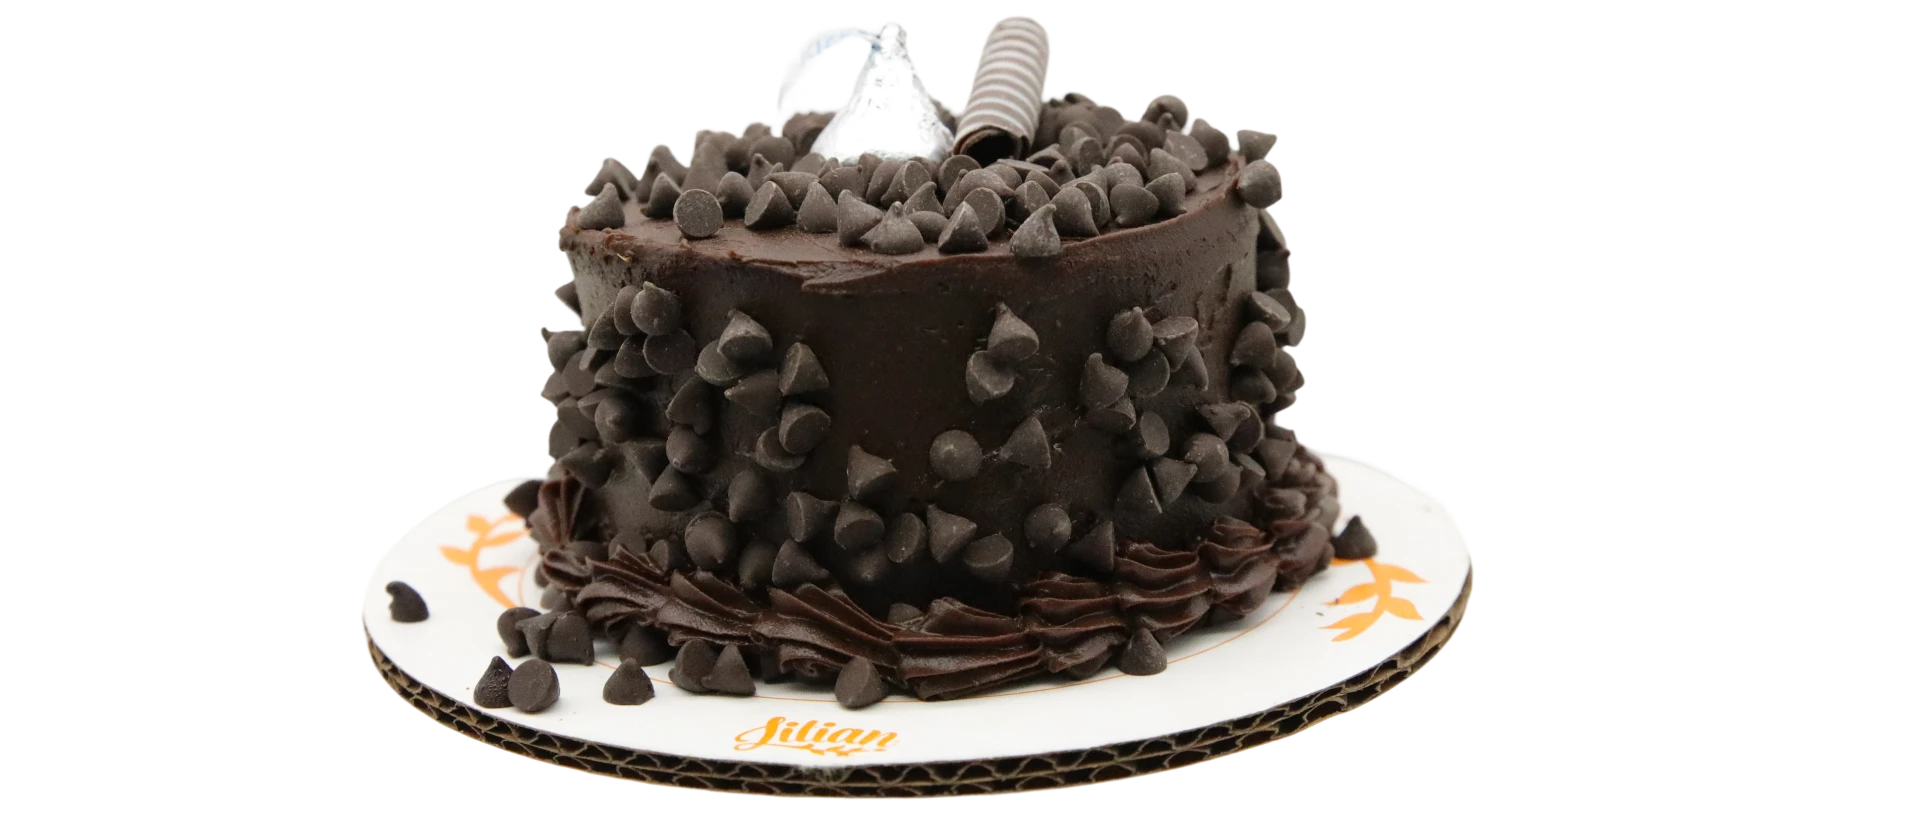
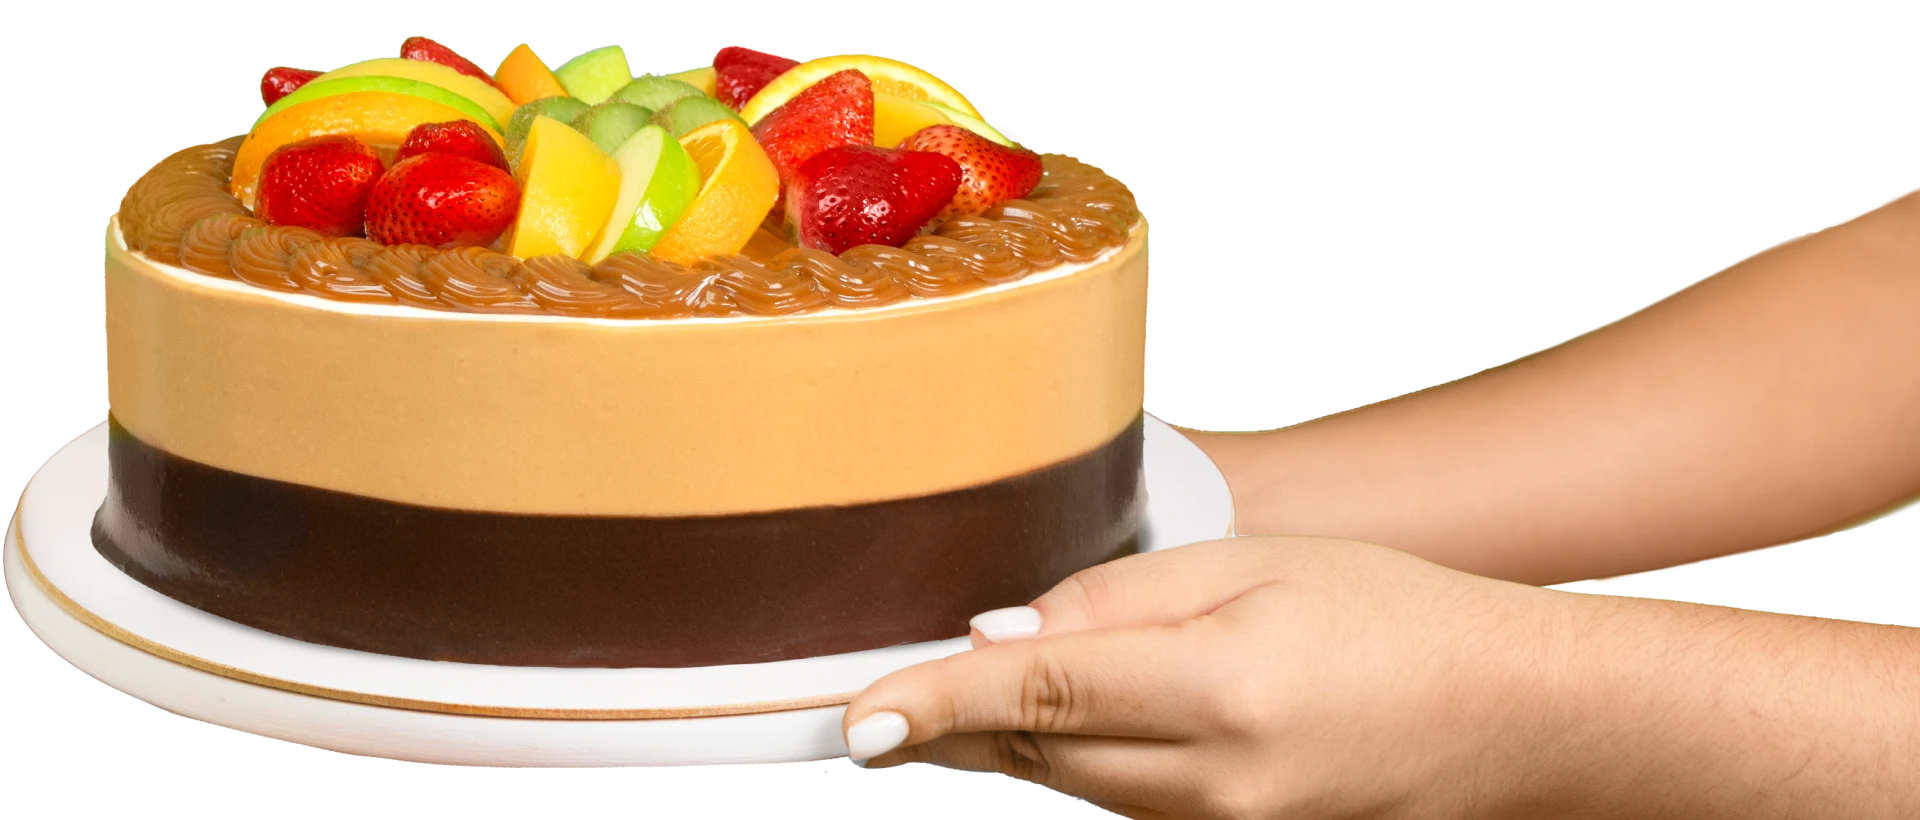
ajustes sliders carrousel

diff --git a/features/catalog/components/CatalogTitle.tsx b/features/catalog/components/CatalogTitle.tsx
@@ -1,22 +1,36 @@
-import { CATALOG_TEXTS } from "../constants";
-import DecorativeArrow from "./DecorativeArrow";
+import Image from "next/image";
+import { CATALOG_IMAGES, CATALOG_TEXTS } from "../constants";
 
 export default function CatalogTitle() {
   return (
-    <div className="flex flex-col items-center mb-12 text-center w-full max-w-[1440px]">
-      <div className="flex items-center justify-center gap-4 sm:gap-8 w-full">
-        <DecorativeArrow className="rotate-180 transform scale-y-[-1]" />
+    <div className="flex flex-col items-center mb-10 sm:mb-12 text-center w-full max-w-[1440px] px-4">
+      <div className="flex items-center justify-center gap-3 sm:gap-6 lg:gap-10 w-full">
+        <Image
+          src={CATALOG_IMAGES.leafLeft}
+          alt=""
+          width={336}
+          height={109}
+          className="hidden sm:block w-[100px] md:w-[160px] lg:w-[220px] h-auto object-contain shrink-0"
+          sizes="(max-width: 768px) 100px, (max-width: 1024px) 160px, 220px"
+        />
 
-        <h2 className="font-chronica text-lilian-purple text-[32px] sm:text-[45px] md:text-[55px] font-bold leading-[1.2] whitespace-nowrap">
+        <h2 className="font-chronica text-lilian-purple text-[24px] sm:text-[34px] md:text-[42px] lg:text-[50px] font-bold leading-[1.1] whitespace-nowrap">
           {CATALOG_TEXTS.titleLine1}
           <br />
-          {CATALOG_TEXTS.titleLine2Prefix}
-          <span className="font-owl-cute text-lilian-orange text-[42px] sm:text-[60px] md:text-[70px] normal-case lowercase inline-block -mb-2">
+          <span className="font-owl-cute text-lilian-orange text-[30px] sm:text-[44px] md:text-[54px] lg:text-[64px] inline-block align-middle mx-1">
             {CATALOG_TEXTS.highlightedWord}
           </span>
+          {CATALOG_TEXTS.titleLine2Suffix}
         </h2>
 
-        <DecorativeArrow />
+        <Image
+          src={CATALOG_IMAGES.leafRight}
+          alt=""
+          width={345}
+          height={109}
+          className="hidden sm:block w-[100px] md:w-[160px] lg:w-[220px] h-auto object-contain shrink-0"
+          sizes="(max-width: 768px) 100px, (max-width: 1024px) 160px, 220px"
+        />
       </div>
     </div>
   );

diff --git a/features/catalog/components/CatalogCta.tsx b/features/catalog/components/CatalogCta.tsx
@@ -1,0 +1,23 @@
+import Image from "next/image";
+import Link from "next/link";
+import { CTA } from "@/lib/constants";
+
+export default function CatalogCta() {
+  return (
+    <div className="mt-12 sm:mt-16 text-center w-full relative z-10">
+      <Link
+        href={CTA.href}
+        className="inline-flex items-center justify-center gap-2 whitespace-nowrap bg-gradient-to-r from-lilian-purple-dark via-lilian-purple to-lilian-purple-light text-white font-chronica font-medium text-[15px] sm:text-[16px] px-6 sm:px-8 py-3 rounded-full shadow-md hover:brightness-110 transition-all duration-200"
+      >
+        <Image
+          src="/icon-pedidos.svg"
+          alt=""
+          width={17}
+          height={16}
+          aria-hidden="true"
+        />
+        {CTA.label}
+      </Link>
+    </div>
+  );
+}

diff --git a/features/hero/components/HeroSlide.tsx b/features/hero/components/HeroSlide.tsx
@@ -31,7 +31,18 @@ function HeroSlide({ slide, index, isActive }: HeroSlideProps) {
         />
       </div>
 
-      {slide.foregroundImage && slide.foregroundImage.fit === "cover" ? (
+      {slide.foregroundImage && slide.foregroundImage.fit === "compact" ? (
+        <div className="absolute right-0 bottom-[-26px] sm:bottom-[-75px] md:bottom-[-54px] lg:bottom-[-42px] z-[1] pointer-events-none h-[280px] sm:h-[320px] md:h-[370px] lg:h-[420px] aspect-[1920/820]">
+          <Image
+            src={slide.foregroundImage.src}
+            alt={slide.foregroundImage.alt}
+            fill
+            priority
+            className="object-contain object-bottom"
+            sizes="(max-width: 640px) 655px, (max-width: 768px) 750px, (max-width: 1024px) 866px, 983px"
+          />
+        </div>
+      ) : slide.foregroundImage && slide.foregroundImage.fit === "cover" ? (
         <div className="absolute inset-x-0 bottom-0 z-[1] pointer-events-none w-full aspect-[1920/820]">
           <Image
             src={slide.foregroundImage.src}

diff --git a/features/catalog/constants.ts b/features/catalog/constants.ts
@@ -51,10 +51,15 @@ export const PRODUCTS: Product[] = [
   },
 ];
 
+export const CATALOG_IMAGES = {
+  leafLeft: "/assets/buscador/leaft_left.svg",
+  leafRight: "/assets/buscador/leaft_right.svg",
+} as const;
+
 export const CATALOG_TEXTS = {
-  titleLine1: "Escoge aquí",
-  titleLine2Prefix: "tu próxima ",
-  highlightedWord: "delicia",
+  titleLine1: "Somos la primer",
+  highlightedWord: "Panadería",
+  titleLine2Suffix: " a nivel regional",
   searchPlaceholder: "Paninis, Pasteles, desayunos...",
   searchButton: "Buscar",
   buyHere: "Comprar aquí",

diff --git a/app/globals.css b/app/globals.css
@@ -6,9 +6,9 @@
 }
 
 @theme inline {
-  --font-chronica: var(--font-chronica), sans-serif;
-  --font-owl-cute: var(--font-owl-cute), cursive;
-  --font-gotham: var(--font-gotham), sans-serif;
+  --font-chronica: var(--font-chronica-family), sans-serif;
+  --font-owl-cute: var(--font-owl-cute-family), cursive;
+  --font-gotham: var(--font-gotham-family), sans-serif;
 }
 
 @theme {
@@ -35,5 +35,5 @@
 body {
   background: var(--background);
   color: var(--foreground);
-  font-family: var(--font-gotham), Arial, sans-serif;
+  font-family: var(--font-gotham-family), Arial, sans-serif;
 }

diff --git a/app/layout.tsx b/app/layout.tsx
@@ -4,7 +4,7 @@ import localFont from "next/font/local";
 import "./globals.css";
 
 const chronicaPro = localFont({
-  variable: "--font-chronica",
+  variable: "--font-chronica-family",
   display: "swap",
   src: [
     {
@@ -101,7 +101,7 @@ const chronicaPro = localFont({
 });
 
 const owlCute = localFont({
-  variable: "--font-owl-cute",
+  variable: "--font-owl-cute-family",
   display: "swap",
   src: [
     {
@@ -113,7 +113,7 @@ const owlCute = localFont({
 });
 
 const gothamFallback = Montserrat({
-  variable: "--font-gotham",
+  variable: "--font-gotham-family",
   subsets: ["latin"],
   weight: ["300", "400", "500", "700", "800"],
 });

diff --git a/features/mission/components/MissionImage.tsx b/features/mission/components/MissionImage.tsx
@@ -4,7 +4,7 @@ import { MISSION_IMAGES } from "../constants";
 export default function MissionImage() {
   return (
     <div className="relative w-full aspect-[4/3] lg:aspect-[1.05] max-w-[650px] mx-auto lg:mx-0">
-      <div className="relative w-full h-full rounded-2xl lg:rounded-[20px] overflow-hidden shadow-xl lg:shadow-2xl">
+      <div className="relative w-full h-full rounded-2xl lg:rounded-[20px] overflow-hidden">
         <Image
           src={MISSION_IMAGES.main}
           alt="Panadería Lilian sucursal"
@@ -15,13 +15,13 @@ export default function MissionImage() {
         />
       </div>
 
-      <div className="absolute bottom-4 left-4 sm:bottom-6 sm:left-6 w-28 sm:w-36 lg:w-[180px] h-11 lg:h-[60px]">
+      <div className="absolute bottom-4 left-4 sm:bottom-6 sm:left-6 w-24 sm:w-32 lg:w-[140px] h-[58px] sm:h-[78px] lg:h-[86px]">
         <Image
           src={MISSION_IMAGES.whiteLogo}
           alt="Lilian Logo"
           fill
           className="object-contain object-left"
-          sizes="(max-width: 640px) 112px, (max-width: 1024px) 144px, 180px"
+          sizes="(max-width: 640px) 96px, (max-width: 1024px) 128px, 140px"
         />
       </div>
 

diff --git a/features/catalog/components/CatalogSection.tsx b/features/catalog/components/CatalogSection.tsx
@@ -5,7 +5,7 @@ import { PRODUCTS } from "../constants";
 import CatalogTitle from "./CatalogTitle";
 import ProductSearch from "./ProductSearch";
 import ProductGrid from "./ProductGrid";
-import LoadMoreButton from "./LoadMoreButton";
+import CatalogCta from "./CatalogCta";
 
 export default function CatalogSection() {
   const { searchTerm, setSearchTerm, filteredProducts } = useProductSearch({
@@ -20,7 +20,7 @@ export default function CatalogSection() {
       <CatalogTitle />
       <ProductSearch value={searchTerm} onChange={setSearchTerm} />
       <ProductGrid products={filteredProducts} />
-      <LoadMoreButton />
+      <CatalogCta />
 
       <div className="absolute bottom-[-50px] left-[-100px] w-full max-w-[800px] h-[300px] opacity-30 z-0 pointer-events-none">
         <svg

diff --git a/features/hero/types.ts b/features/hero/types.ts
@@ -19,8 +19,8 @@ export type HeroSlideData = {
   foregroundImage?: {
     src: string;
     alt: string;
-    /** "contain" (default) shows the full image inside a fixed-height box; "cover" anchors it to the bottom edge, cropping excess height. */
-    fit?: "contain" | "cover";
+    /** "contain" (default) shows the full image inside a fixed-height box; "cover" anchors it full-width to the bottom edge; "compact" shows it uncropped in a smaller box anchored to the bottom-right corner, so it always touches the right edge. */
+    fit?: "contain" | "cover" | "compact";
   };
   headline: HeadlineSegment[][];
   /** "center" (default) or "left" text/CTA alignment. */

diff --git a/features/mission/components/MissionSection.tsx b/features/mission/components/MissionSection.tsx
@@ -9,7 +9,7 @@ export default function MissionSection() {
       id="historia"
       className="relative w-full py-16 lg:py-24 flex flex-col items-center overflow-hidden"
     >
-      <div className="absolute top-0 right-0 w-[220px] sm:w-[280px] lg:w-[340px] h-auto aspect-[259/494] z-0 pointer-events-none">
+      <div className="absolute top-0 -right-6 sm:-right-12 lg:-right-[80px] w-[220px] sm:w-[280px] lg:w-[340px] h-auto aspect-[259/494] z-0 pointer-events-none">
         <Image
           src={MISSION_IMAGES.backgroundShape}
           alt=""

diff --git a/components/Header.tsx b/components/Header.tsx
@@ -22,6 +22,7 @@ export default function Header() {
             fill
             className="object-contain"
             priority
+            sizes="(max-width: 640px) 128px, (max-width: 768px) 160px, 192px"
           />
         </Link>
 

diff --git a/features/catalog/components/ProductCard.tsx b/features/catalog/components/ProductCard.tsx
@@ -23,6 +23,7 @@ export default function ProductCard({ product }: ProductCardProps) {
             alt={product.name}
             fill
             className="object-contain"
+            sizes="(max-width: 640px) 100vw, (max-width: 1024px) 50vw, 25vw"
           />
         </div>
       </div>